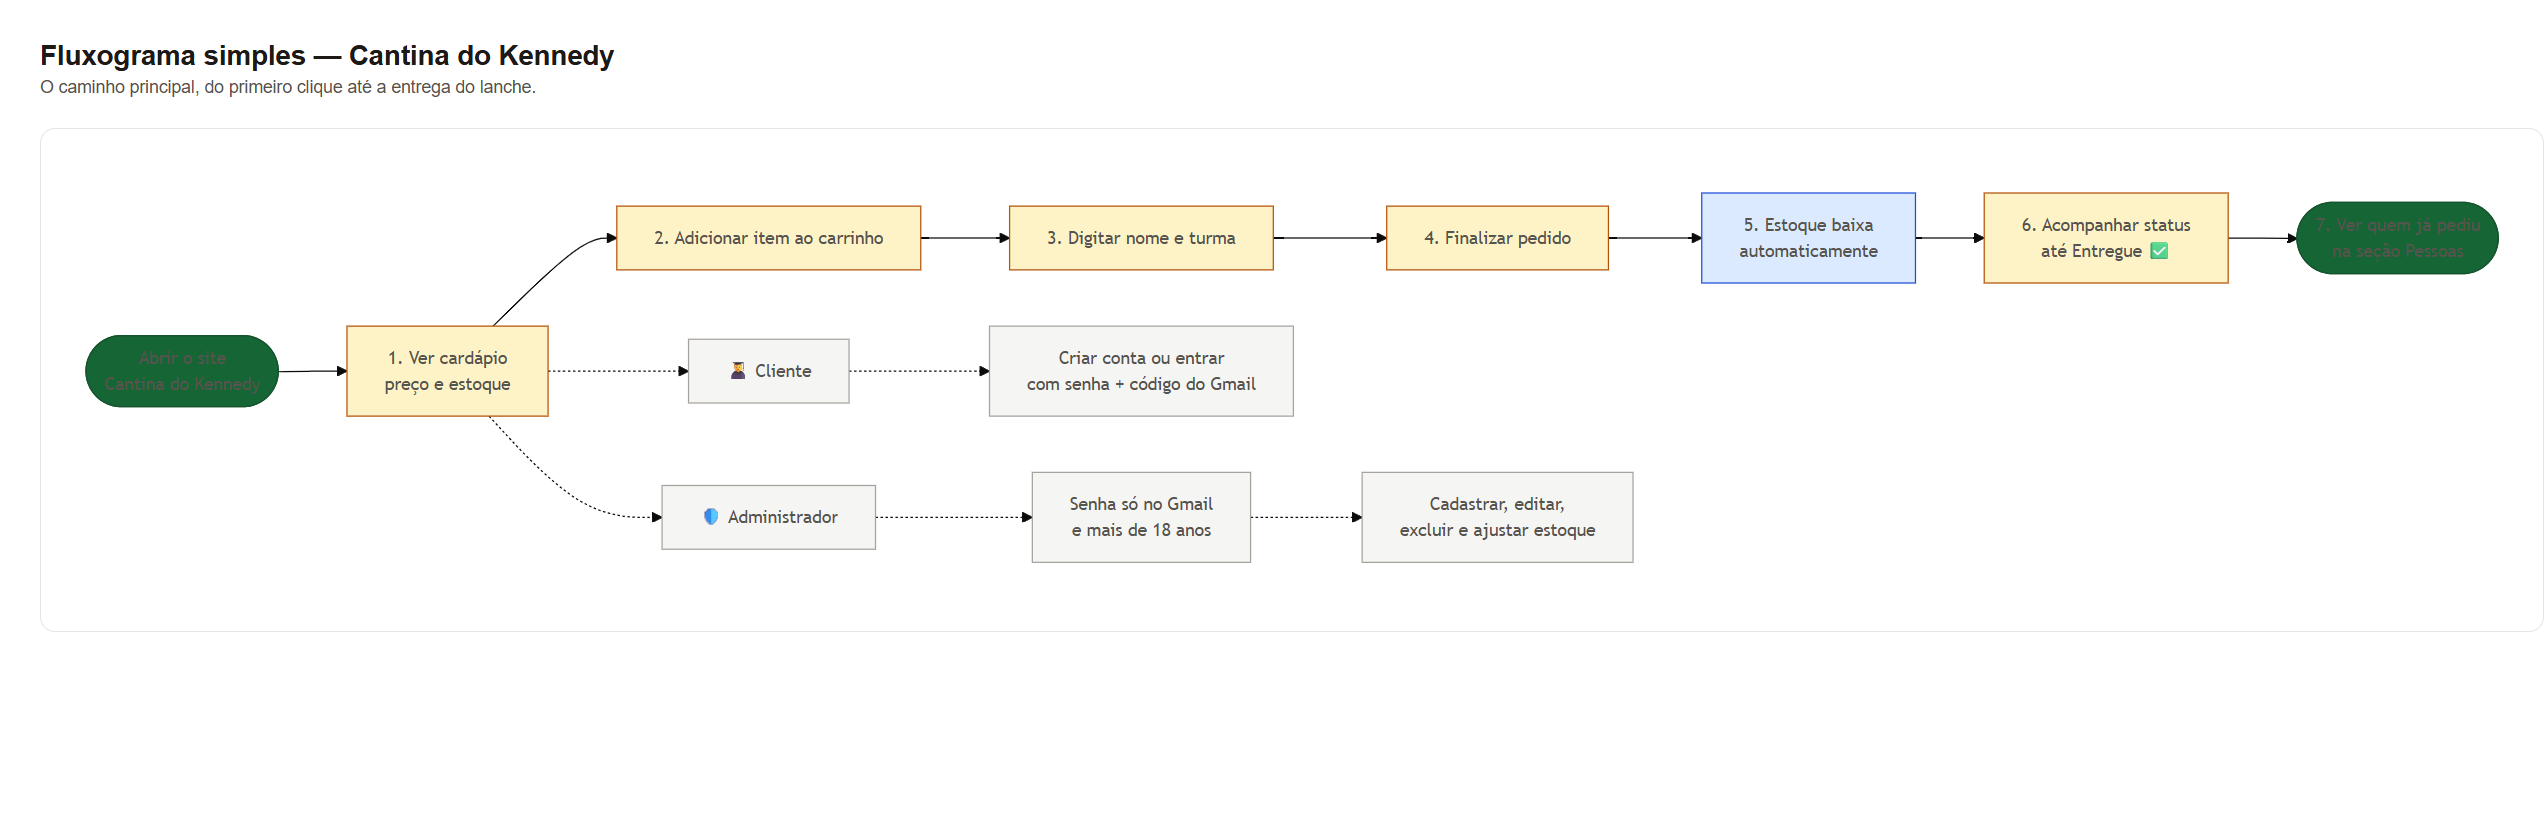
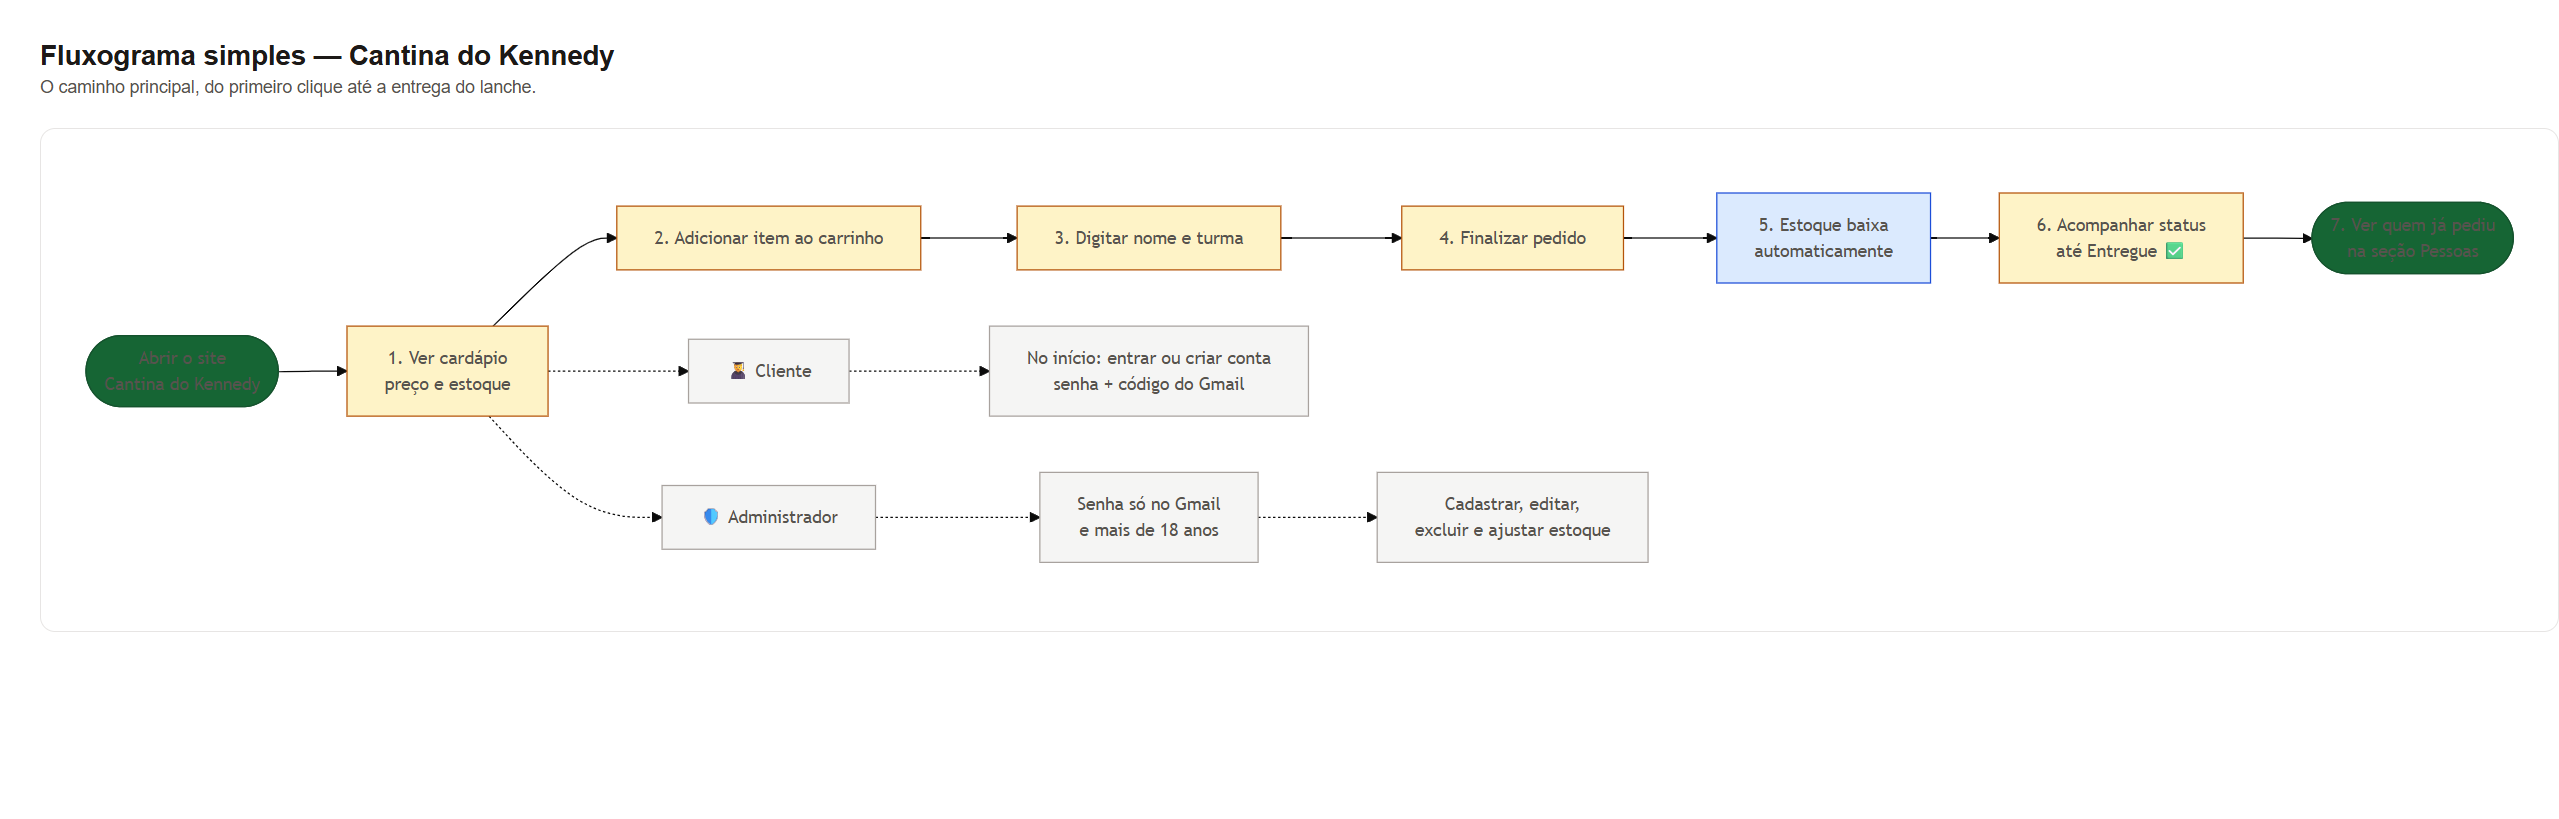
Deixa conta visivel no inicio e adiciona Sair no topo

diff --git a/index.html b/index.html
@@ -4,7 +4,7 @@
   <meta charset="UTF-8">
   <meta name="viewport" content="width=device-width, initial-scale=1.0">
   <title>Cantina do Kennedy | Peça seu lanche</title>
-  <link rel="stylesheet" href="style.css?v=7">
+  <link rel="stylesheet" href="style.css?v=8">
 </head>
 <body>
 
@@ -19,6 +19,8 @@
         <a href="#pedidos">Meus pedidos</a>
         <a href="#pessoas">Pessoas</a>
       </nav>
+      <a class="botao-topo-conta" id="nav-conta" href="#conta">🔑 Entrar / Criar conta</a>
+      <button class="botao-topo-sair" id="btn-sair-topo" type="button" hidden>Sair</button>
       <button class="botao-tema" id="alternar-tema" type="button" title="Mudar cor do fundo" aria-label="Mudar para o fundo escuro">🌙</button>
       <button class="botao-carrinho" id="abrir-carrinho" type="button">
         🛒 <span>Carrinho</span> <span class="badge" id="contador-carrinho">0</span>
@@ -34,50 +36,17 @@
         <h1>Peça seu lanche sem perder tempo na fila.</h1>
         <p>Escolha seus favoritos, monte o pedido e retire no balcão da cantina. Simples assim!</p>
         <a class="botao-primario hero-cta" href="#cardapio">Ver cardápio ↓</a>
+        <a class="botao-secundario hero-cta" href="#conta">🔑 Entrar ou criar conta →</a>
       </div>
       <div class="emoji" aria-hidden="true">🥪</div>
     </section>
 
-    <!-- Cardápio -->
-    <section class="secao" id="cardapio">
+    <!-- Área de login: cliente ou administrador (no início, bem visível) -->
+    <section class="secao conta-destaque" id="conta">
       <div class="secao-cabecalho">
         <div>
-          <h2>Cardápio</h2>
-          <p class="secao-sub">Clique em “Adicionar” para colocar no carrinho.</p>
-        </div>
-      </div>
-      <div class="filtros" id="filtros"></div>
-      <div class="grade-cardapio" id="grade-cardapio"></div>
-    </section>
-
-    <!-- Pedidos feitos -->
-    <section class="secao" id="pedidos">
-      <div class="secao-cabecalho">
-        <div>
-          <h2>Meus pedidos</h2>
-          <p class="secao-sub">Acompanhe o andamento dos seus pedidos.</p>
-        </div>
-      </div>
-      <div class="lista-pedidos" id="lista-pedidos"></div>
-    </section>
-
-    <!-- Pessoas que já fizeram pedidos -->
-    <section class="secao" id="pessoas">
-      <div class="secao-cabecalho">
-        <div>
-          <h2>Pessoas que já pediram</h2>
-          <p class="secao-sub" id="resumo-pessoas">Nenhuma pessoa ainda.</p>
-        </div>
-      </div>
-      <div class="lista-pessoas" id="lista-pessoas"></div>
-    </section>
-
-    <!-- Área de login: cliente ou administrador -->
-    <section class="secao" id="conta">
-      <div class="secao-cabecalho">
-        <div>
-          <h2>Minha conta</h2>
-          <p class="secao-sub">Entre para fazer pedidos ou, se você for o responsável, para gerenciar a cantina.</p>
+          <h2>Minha conta — comece por aqui</h2>
+          <p class="secao-sub">Entre ou crie sua conta para fazer pedidos. Se você é o responsável pela cantina, entre como administrador para gerenciar os produtos.</p>
         </div>
       </div>
 
@@ -184,6 +153,40 @@
       </div>
     </section>
 
+    <!-- Cardápio -->
+    <section class="secao" id="cardapio">
+      <div class="secao-cabecalho">
+        <div>
+          <h2>Cardápio</h2>
+          <p class="secao-sub">Clique em “Adicionar” para colocar no carrinho.</p>
+        </div>
+      </div>
+      <div class="filtros" id="filtros"></div>
+      <div class="grade-cardapio" id="grade-cardapio"></div>
+    </section>
+
+    <!-- Pedidos feitos -->
+    <section class="secao" id="pedidos">
+      <div class="secao-cabecalho">
+        <div>
+          <h2>Meus pedidos</h2>
+          <p class="secao-sub">Acompanhe o andamento dos seus pedidos.</p>
+        </div>
+      </div>
+      <div class="lista-pedidos" id="lista-pedidos"></div>
+    </section>
+
+    <!-- Pessoas que já fizeram pedidos -->
+    <section class="secao" id="pessoas">
+      <div class="secao-cabecalho">
+        <div>
+          <h2>Pessoas que já pediram</h2>
+          <p class="secao-sub" id="resumo-pessoas">Nenhuma pessoa ainda.</p>
+        </div>
+      </div>
+      <div class="lista-pessoas" id="lista-pessoas"></div>
+    </section>
+
     <!-- Área do administrador (só aparece depois do login) -->
     <section class="secao" id="admin" hidden>
       <details class="admin" open>
@@ -260,6 +263,6 @@
 
   <div class="toast" id="toast" role="status" aria-live="polite"></div>
 
-  <script src="app.js?v=7"></script>
+  <script src="app.js?v=8"></script>
 </body>
 </html>

diff --git a/style.css b/style.css
@@ -79,6 +79,10 @@ button { cursor: pointer; }
 .nav { display: flex; gap: 18px; margin-left: auto; }
 .nav a { color: var(--muted); font-weight: 600; }
 .nav a:hover { color: var(--acento-texto); }
+.botao-topo-conta { border: 1px solid var(--laranja); background: var(--chip-fundo); color: var(--acento-texto); border-radius: 999px; padding: 9px 14px; font-weight: 800; text-decoration: none; white-space: nowrap; }
+.botao-topo-conta:hover { background: var(--laranja); color: #fff; }
+.botao-topo-sair { border: 1px solid #b91c1c; background: none; color: #b91c1c; border-radius: 999px; padding: 9px 14px; font-weight: 800; white-space: nowrap; }
+.botao-topo-sair:hover { background: #b91c1c; color: #fff; }
 
 .botao-tema {
   border: 1px solid var(--borda);
@@ -143,6 +147,8 @@ main { max-width: 1100px; margin: auto; padding: 0 20px 60px; }
 .secao-cabecalho { margin-bottom: 18px; }
 .secao h2 { margin: 0; font-size: 1.8rem; }
 .secao-sub { color: var(--muted); margin: 4px 0 0; }
+.conta-destaque { border: 2px solid var(--laranja); border-radius: 20px; background: var(--chip-fundo); padding: 20px; margin-top: 44px; }
+.conta-destaque h2 { color: var(--acento-texto); }
 
 .filtros { display: flex; gap: 8px; flex-wrap: wrap; margin-bottom: 20px; }
 .filtro {
@@ -410,6 +416,8 @@ footer { text-align: center; color: var(--muted); padding: 24px 20px 40px; font-
 body.tema-escuro .toast { background: #e7e5e4; color: #1c1917; }
 body.tema-escuro .botao-texto,
 body.tema-escuro .controles .remover { color: #fca5a5; }
+body.tema-escuro .botao-topo-sair { color: #fca5a5; border-color: #fca5a5; }
+body.tema-escuro .botao-topo-sair:hover { background: #fca5a5; color: #1c1917; }
 
 /* ---------- Celular ---------- */
 @media (max-width: 700px) {
@@ -419,4 +427,6 @@ body.tema-escuro .controles .remover { color: #fca5a5; }
   .topo-interno { padding: 12px 16px; gap: 12px; }
   .botao-carrinho span:not(.badge) { display: none; }
   .botao-tema { width: 38px; height: 38px; }
+  .botao-topo-conta, .botao-topo-sair { padding: 8px 10px; font-size: 0.85rem; }
+  .conta-destaque { padding: 14px; }
 }

diff --git a/app.js b/app.js
@@ -72,6 +72,8 @@ const el = {
   btnSalvarItem: $('#btn-salvar-item'),
   btnCancelarEdicao: $('#btn-cancelar-edicao'),
   listaCustom: $('#lista-custom'),
+  navConta: $('#nav-conta'),
+  btnSairTopo: $('#btn-sair-topo'),
   authAbas: $('#auth-abas'),
   abaLogin: $('#aba-login'),
   abaCriar: $('#aba-criar'),
@@ -283,6 +285,9 @@ function renderizarAdmin() {
   el.authLogado.hidden = !logado;
   el.secaoAdmin.hidden = !admin;
   el.adminConteudo.hidden = !admin;
+
+  el.navConta.textContent = logado ? `👤 ${sessao.nome}` : '🔑 Entrar / Criar conta';
+  el.btnSairTopo.hidden = !logado;
 
   if (logado) {
     el.nomeLogado.textContent = sessao.nome;
@@ -941,6 +946,7 @@ el.abaCriar.addEventListener('click', () => {
   alternarModo('criar');
 });
 el.btnSair.addEventListener('click', sair);
+el.btnSairTopo.addEventListener('click', sair);
 el.btnCancelarEdicao.addEventListener('click', resetarFormItem);
 el.btnConfirmarCodigo.addEventListener('click', confirmarCodigo);
 el.btnCancelarCodigo.addEventListener('click', cancelarCodigo);

diff --git a/fluxograma.html b/fluxograma.html
@@ -71,7 +71,7 @@ flowchart TD
     PESSOAS --> CARDPESSOA["Mostra para cada pessoa:<br/>pedidos, total gasto e último pedido"]
     CARDPESSOA --> MENU
 
-    MENU -->|"Minha conta"| ENTRADA{"Entrar ou criar conta?"}
+    MENU -->|"Entrar / Criar conta no início<br/>ou pelo atalho do topo"| ENTRADA{"Entrar ou criar conta?"}
 
     ENTRADA -->|"Entrar"| LOGIN["Escolhe cliente ou administrador<br/>informa e-mail e senha numérica"]
     LOGIN --> LOGINOK{"Dados corretos?"}
@@ -101,7 +101,7 @@ flowchart TD
     ADMIN --> EDITAR["Editar produto:<br/>preço, categoria e estoque"]
     ADMIN --> REMOVE["Excluir produto<br/>pede confirmação"]
     ADMIN --> LIMPAR["Limpar todos os dados<br/>pede confirmação"]
-    ADMIN --> SAIR["Sair da conta"]
+    ADMIN --> SAIR["Sair da conta<br/>botão visível no topo"]
     NOVO --> SALVACUSTOM["Salva no navegador<br/>produto aparece no cardápio"]
     EDITAR --> SALVACUSTOM
     REMOVE --> SALVACUSTOM

diff --git a/fluxograma-simples.html b/fluxograma-simples.html
@@ -44,7 +44,7 @@ flowchart LR
     A --> B --> C --> D --> E --> F --> G --> H
 
     B -.-> I["🧑🎓 Cliente"]
-    I -.-> J["Criar conta ou entrar<br/>com senha + código do Gmail"]
+    I -.-> J["No início: entrar ou criar conta<br/>senha + código do Gmail"]
     B -.-> L["🛡 Administrador"]
     L -.-> M["Senha só no Gmail<br/>e mais de 18 anos"]
     M -.-> K["Cadastrar, editar,<br/>excluir e ajustar estoque"]

diff --git a/fluxograma.md b/fluxograma.md
@@ -49,7 +49,7 @@ flowchart TD
     PESSOAS --> CARDPESSOA["Mostra para cada pessoa:<br/>pedidos, total gasto e último pedido"]
     CARDPESSOA --> MENU
 
-    MENU -->|"Minha conta"| ENTRADA{"Entrar ou criar conta?"}
+    MENU -->|"Entrar / Criar conta no início<br/>ou pelo atalho do topo"| ENTRADA{"Entrar ou criar conta?"}
 
     ENTRADA -->|"Entrar"| LOGIN["Escolhe cliente ou administrador<br/>informa e-mail e senha numérica"]
     LOGIN --> LOGINOK{"Dados corretos?"}
@@ -79,7 +79,7 @@ flowchart TD
     ADMIN --> EDITAR["Editar produto:<br/>preço, categoria e estoque"]
     ADMIN --> REMOVE["Excluir produto<br/>pede confirmação"]
     ADMIN --> LIMPAR["Limpar todos os dados<br/>pede confirmação"]
-    ADMIN --> SAIR["Sair da conta"]
+    ADMIN --> SAIR["Sair da conta<br/>botão visível no topo"]
     NOVO --> SALVACUSTOM["Salva no navegador<br/>produto aparece no cardápio"]
     EDITAR --> SALVACUSTOM
     REMOVE --> SALVACUSTOM

diff --git a/README.md b/README.md
@@ -16,7 +16,9 @@ Site para fazer pedidos de lanches da cantina.
 
 ## Como funcionam as contas
 
-Na seção **Minha conta** você escolhe entre **Entrar** e **Criar conta**.
+A seção **Minha conta** fica no **início da página**, logo após a apresentação, bem visível. Você também encontra o atalho **🔑 Entrar / Criar conta** no topo, ao lado de Cardápio, Meus pedidos e Pessoas. Lá você escolhe entre **Entrar** e **Criar conta**.
+
+Quando estiver logado, o topo mostra seu nome e um botão **Sair** fácil de encontrar — ele encerra a sessão de qualquer lugar do site.
 
 ### 🧑🎓 Cliente
 - Informa nome, turma, e-mail e senha (somente números, mínimo 4 dígitos).

diff --git a/fluxograma-simples.md b/fluxograma-simples.md
@@ -23,7 +23,7 @@ flowchart LR
     A --> B --> C --> D --> E --> F --> G --> H
 
     B -.-> I["🧑🎓 Cliente"]
-    I -.-> J["Criar conta ou entrar<br/>com senha + código do Gmail"]
+    I -.-> J["No início: entrar ou criar conta<br/>senha + código do Gmail"]
     B -.-> L["🛡 Administrador"]
     L -.-> M["Senha só no Gmail<br/>e mais de 18 anos"]
     M -.-> K["Cadastrar, editar,<br/>excluir e ajustar estoque"]
